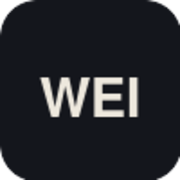
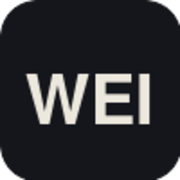
add FAQ, view transitions between pages, fix nav-waveform inconsistencies
- FAQ section added to pricing page (details/summary accordion, no JS)
- cross-page view transitions: index.html <-> pricing.html now crossfade instead of hard-cutting, with the WEI logo morphing smoothly between them via view-transition-name
- pricing.html's nav now has the same mini waveform as index.html (statically visible, no hero there to scroll past) so the logo shape matches on both ends of the transition
- fixed visible scroll-down when landing on index.html#about/#credibility from another page - was fighting with scroll-behavior: smooth
- fixed a case where clicking a nav link shortly after scrolling past the hero could catch the waveform reveal mid-transition, giving the page transition an unsettled snapshot to work from
- favicon sizing tweaks

Changed region(s): [[0.1389, 0.3889, 0.8333, 0.6944]]

diff --git a/styles.css b/styles.css
@@ -82,6 +82,19 @@
   color-scheme: light;
 }
 
+/* ===========================================================
+   VIEW TRANSITIONS
+   Opts every internal link (index.html <-> pricing.html) into the
+   browser's built-in View Transitions API: instead of the page just
+   cutting instantly to the new one, the browser crossfades between
+   a snapshot of the old page and the new one. Progressive
+   enhancement - browsers that don't support this rule yet just
+   ignore it and navigate exactly as before, nothing breaks.
+============================================================ */
+@view-transition {
+  navigation: auto;
+}
+
 /* CSS RESET */
 * {
   margin: 0;
@@ -496,6 +509,101 @@ html {
 }
 
 /* ===========================================================
+   FAQ
+   Built on <details>/<summary> - a native HTML accordion, so
+   clicking a question to expand its answer needs zero JavaScript.
+   Everything below is just styling that behavior, not creating it.
+============================================================ */
+.faq {
+  margin-top: 3rem;
+  padding-top: 3rem;
+  border-top: 1px solid var(--border);
+  display: flex;
+  flex-direction: column;
+  gap: 1.5rem;
+  width: 100%;
+  max-width: 700px; /* matches .pricing-grid's max-width above, so both line up */
+  transition: border-color var(--theme-transition);
+}
+
+.faq h2 {
+  font-family: var(--font-display);
+  font-size: clamp(1.6rem, 3.5vw, 2.2rem);
+}
+
+.faq-list {
+  display: flex;
+  flex-direction: column;
+  gap: 0.5rem;
+}
+
+.faq-item {
+  border-bottom: 1px solid var(--border);
+  transition: border-color var(--theme-transition);
+}
+
+.faq-item summary {
+  display: flex;
+  align-items: center;
+  justify-content: space-between;
+  gap: 1rem;
+  cursor: pointer;
+  list-style: none; /* removes Firefox's default disclosure triangle */
+  font-family: var(--font-display);
+  font-weight: 500;
+  font-size: 1.05rem;
+  color: var(--text);
+  padding: 0.9rem 0;
+  transition: color 0.15s ease; /* fast, same reasoning as .nav a's hover */
+}
+
+.faq-item summary::-webkit-details-marker {
+  display: none; /* removes Chrome/Safari's default disclosure triangle */
+}
+
+.faq-item summary:hover,
+.faq-item summary:focus-visible {
+  color: var(--accent);
+}
+
+/* custom "+" indicator, replacing the default triangle removed
+   above - rotates 45deg into an "x" when the answer is open */
+.faq-item summary::after {
+  content: '+';
+  flex-shrink: 0;
+  font-family: var(--font-mono);
+  font-size: 1.3rem;
+  color: var(--text-muted);
+  transition: transform 0.25s ease;
+}
+
+.faq-item[open] summary::after {
+  transform: rotate(45deg);
+}
+
+.faq-item p {
+  color: var(--text-muted);
+  font-size: 0.95rem;
+  line-height: 1.6;
+  max-width: 60ch;
+  padding: 0 0 1.1rem;
+}
+
+.faq-item p a {
+  color: var(--accent);
+}
+
+.faq-closing {
+  color: var(--text-muted);
+  font-size: 0.95rem;
+  margin-top: 0.5rem;
+}
+
+.faq-closing a {
+  color: var(--accent);
+}
+
+/* ===========================================================
    NAV BAR
 ============================================================ */
 .nav {
@@ -523,6 +631,23 @@ html {
   flex-shrink: 0; /* stops the logo from getting squeezed/shrunk by the links next to it on narrow screens */
 }
 
+/* Marks just the "WEI" text as the SAME element across a navigation,
+   to the browser's view-transition engine (see @view-transition
+   above) - deliberately NOT the whole .nav .brand link. The mini
+   waveform next to it can be visible on one page and not the other
+   (it's always on for pricing.html, but only appears on index.html
+   after scrolling past the hero) - if the whole link carried the
+   name, the browser would try to morph two differently-shaped
+   elements into each other whenever those states didn't match,
+   which is what was reading as a jump on the way back to pricing.
+   Naming just the text keeps that part - the actual logo - morphing
+   smoothly every time, the closest plain-CSS equivalent to
+   something like Framer's Smart Animate, while the waveform simply
+   fades in or out normally as part of the page's plain crossfade. */
+.brand-text {
+  view-transition-name: brand;
+}
+
 /* Mini copy of the hero's waveform, living inside the nav brand
    link. Reuses .waveform's flex/gap and .waveform span's bar shape
    + bounce animation as-is (the bar heights below are percentages
@@ -536,7 +661,10 @@ html {
   margin-top: 0;
   opacity: 0;
   transform: translateX(-6px) scale(0.9);
-  transition: opacity 0.4s ease, transform 0.4s ease;
+  /* sped up from 0.4s - now that the observer fires at the right
+     moment (see script.js), a quicker fade keeps the handoff feeling
+     immediate instead of lagging behind the real one's disappearance */
+  transition: opacity 0.2s ease, transform 0.2s ease;
 }
 
 .waveform--nav span {
@@ -745,6 +873,20 @@ html {
   .nav a {
     font-size: 0.95rem;
   }
+}
+
+/* Forces every transition inside .nav to resolve instantly - added
+   by script.js for one frame right before a cross-page navigation
+   fires. Without this, clicking a nav link shortly after the mini
+   waveform's reveal/hide transition started (most likely right
+   after scrolling past the hero, since "About" sits right there)
+   could catch it mid-animation, handing the view-transition engine
+   an unsettled snapshot to morph from - which is what made that
+   specific transition look worse than others. This guarantees a
+   clean, fully-settled snapshot every time, regardless of timing. */
+.nav.no-transition,
+.nav.no-transition * {
+  transition: none !important;
 }
 
 /* ===========================================================

diff --git a/pricing.html b/pricing.html
@@ -34,8 +34,22 @@
        sections don't exist on this page. "Pricing" has no href
        needed as a link back to itself, so it's left as a visual
        label rather than a functional dead link. -->
-  <nav class="nav">
-    <a class="brand" href="index.html">WEI</a>
+  <!-- show-waveform is set directly here (not toggled by script.js
+       like on index.html) because this page has no hero section to
+       scroll past - there's nothing to observe, so the mini waveform
+       is just always on. This also keeps .nav .brand's shape
+       consistent with index.html's scrolled-past-hero state, which
+       matters now that the view-transition between pages morphs the
+       logo directly - mismatched shapes on either end is what was
+       making that transition look misaligned. -->
+  <nav class="nav show-waveform">
+    <a class="brand" href="index.html">
+      <!-- same mini waveform as index.html - see the comment there -->
+      <div class="waveform waveform--nav" aria-hidden="true">
+        <span></span><span></span><span></span><span></span><span></span>
+      </div>
+      <span class="brand-text">WEI</span>
+    </a>
 
     <!-- same nav-right group (links, theme switch, hamburger) as
          index.html - see the comments there for how it all works -->
@@ -102,6 +116,57 @@
     </div>
 
     <a class="cta" href="mailto:w@weimusic.co">Book a lesson</a>
+    <!-- kept right below the pricing instead of after the FAQ, so
+         booking doesn't require scrolling past all eight questions
+         first - the FAQ below is for whoever still wants it, not a
+         gate in front of the CTA -->
+
+    <!-- ============ FAQ ============
+         <details>/<summary> is a native, built-in HTML accordion -
+         click to expand, no JavaScript needed. -->
+    <section class="faq" aria-label="Frequently asked questions">
+      <h2>Frequently asked questions</h2>
+
+      <div class="faq-list">
+        <details class="faq-item">
+          <summary>What can you help me with?</summary>
+          <p>Music production, sound design, audio mixing, and music to picture (scoring and syncing music to video).</p>
+        </details>
+
+        <details class="faq-item">
+          <summary>Do you teach online or in person?</summary>
+          <p>Both - lessons run over Zoom or in person, whichever works better for you.</p>
+        </details>
+
+        <details class="faq-item">
+          <summary>What software do you teach in?</summary>
+          <p>Mainly Logic Pro, with Ableton Live as well - happy to work in whichever one you're more comfortable in, or help you get started if you haven't picked one yet.</p>
+        </details>
+
+        <details class="faq-item">
+          <summary>What level should I be at to start?</summary>
+          <p>Any level - from total beginners who've never opened a DAW before, to advanced producers looking to sharpen a specific skill.</p>
+        </details>
+
+        <details class="faq-item">
+          <summary>Is there an age requirement?</summary>
+          <p>No - lessons are open to all ages. Bringing production to as many different people as possible is part of the mission here.</p>
+        </details>
+
+        <details class="faq-item">
+          <summary>What happens in the free first lesson?</summary>
+          <p>It's a chance to meet, talk about what you want to get out of lessons, and make sure the pace and approach are the right fit - no cost, no obligation to continue.</p>
+        </details>
+
+        <details class="faq-item">
+          <summary>Can I reschedule or cancel a lesson?</summary>
+          <p>Life happens - just reach out by email as soon as you can and we'll find a new time that works.</p>
+        </details>
+
+      </div>
+
+      <p class="faq-closing">Feel free to <a href="mailto:w@weimusic.co">reach out</a> if you have any specific questions.</p>
+    </section>
 
   </main>
 

diff --git a/script.js b/script.js
@@ -1,4 +1,45 @@
 /* ===========================================================
+   RESTORE SMOOTH SCROLL AFTER INITIAL LOAD
+   Companion to the inline script in index.html's <head> that forces
+   scroll-behavior: auto when arriving via a #hash link, so the
+   browser's automatic jump to that section is instant instead of a
+   visible scroll down the page. That override needs to be lifted
+   again once the page has settled, or every future in-page link
+   click would lose its smooth scroll too. Safe to run on every
+   page, hash or not - clearing a style that was never set just does
+   nothing.
+============================================================ */
+window.addEventListener('load', () => {
+  document.documentElement.style.scrollBehavior = '';
+});
+
+// declared once, up here, since a couple of unrelated blocks below
+// (the waveform reveal, and the settle-before-navigating block
+// right after this comment) both need a reference to the nav
+const nav = document.querySelector('.nav');
+
+/* ===========================================================
+   SETTLE NAV TRANSITIONS BEFORE LEAVING THE PAGE
+   Companion to the .nav.no-transition rule in styles.css. Any link
+   in the nav that goes to a different page - "About"/"Track Record"
+   (which point at index.html from pricing.html), "Pricing", or the
+   logo - gets one frame where every transition inside the nav is
+   forced to finish instantly before the browser actually navigates
+   away. That guarantees the view-transition engine always captures
+   a fully-settled snapshot of the nav, instead of possibly catching
+   the mini waveform mid fade-in/out if a link was clicked shortly
+   after scrolling past the hero.
+============================================================ */
+if (nav) {
+  nav.querySelectorAll('a[href]:not([href^="mailto:"])').forEach((link) => {
+    link.addEventListener('click', () => {
+      nav.classList.add('no-transition');
+      void nav.offsetHeight; // forces the browser to apply the instant state immediately, before navigation fires
+    });
+  });
+}
+
+/* ===========================================================
    MOBILE NAV TOGGLE
    Shared by index.html and pricing.html - same reasoning as the
    shared styles.css file: write the logic once, link it from both
@@ -131,7 +172,7 @@ if (hero && !prefersReducedMotion) {
 ============================================================ */
 
 const heroWaveform = document.querySelector('.hero .waveform');
-const nav = document.querySelector('.nav');
+// nav is already declared near the top of this file
 
 if (heroWaveform && nav) {
 
@@ -139,6 +180,15 @@ if (heroWaveform && nav) {
     // entry.isIntersecting is true while the hero waveform is still
     // on screen - show the nav's copy exactly when that flips false
     nav.classList.toggle('show-waveform', !entry.isIntersecting);
+  }, {
+    // Without this, "on screen" means anywhere in the full viewport -
+    // but the sticky nav's own ~64px visually covers the top of that
+    // viewport, so the hero waveform was getting hidden behind the
+    // nav before the observer noticed it was gone. That gap was the
+    // dead moment where neither waveform was visible. Shrinking the
+    // observer's effective viewport by the nav's height makes it
+    // flip at the same instant the real one visually disappears.
+    rootMargin: '-64px 0px 0px 0px'
   });
 
   waveformObserver.observe(heroWaveform);

diff --git a/index.html b/index.html
@@ -42,6 +42,26 @@
     })();
   </script>
 
+  <!-- Arriving at a URL like index.html#about (e.g. clicking "About"
+       from the pricing page's nav) triggers the browser's own
+       automatic jump to that section. Because html { scroll-behavior:
+       smooth } in styles.css applies to that automatic jump too, not
+       just to clicks made after the page has already loaded, it was
+       visibly animating a scroll down the page right after arriving -
+       which looks like a mistake, since there was nothing on screen
+       yet establishing a "before" position for that motion to make
+       sense against. Forcing scroll-behavior: auto here overrides it
+       just for that initial jump; script.js hands control back to the
+       smooth CSS behavior once the page has settled, so a visitor
+       clicking "About" while already on this page still gets a
+       smooth scroll - it's only the instant-arrival case that skips
+       it. -->
+  <script>
+    if (location.hash) {
+      document.documentElement.style.scrollBehavior = 'auto';
+    }
+  </script>
+
   <!-- Loading Google Fonts: three roles - a bold "display" font for the big
        brand name, a plain "body" font for readable paragraph text, and a
        "mono" font kept in reserve for small labels -->
@@ -72,7 +92,7 @@
       <div class="waveform waveform--nav" aria-hidden="true">
         <span></span><span></span><span></span><span></span><span></span>
       </div>
-      WEI
+      <span class="brand-text">WEI</span>
     </a>
 
     <!-- Everything on the right side of the nav (links, theme switch,
